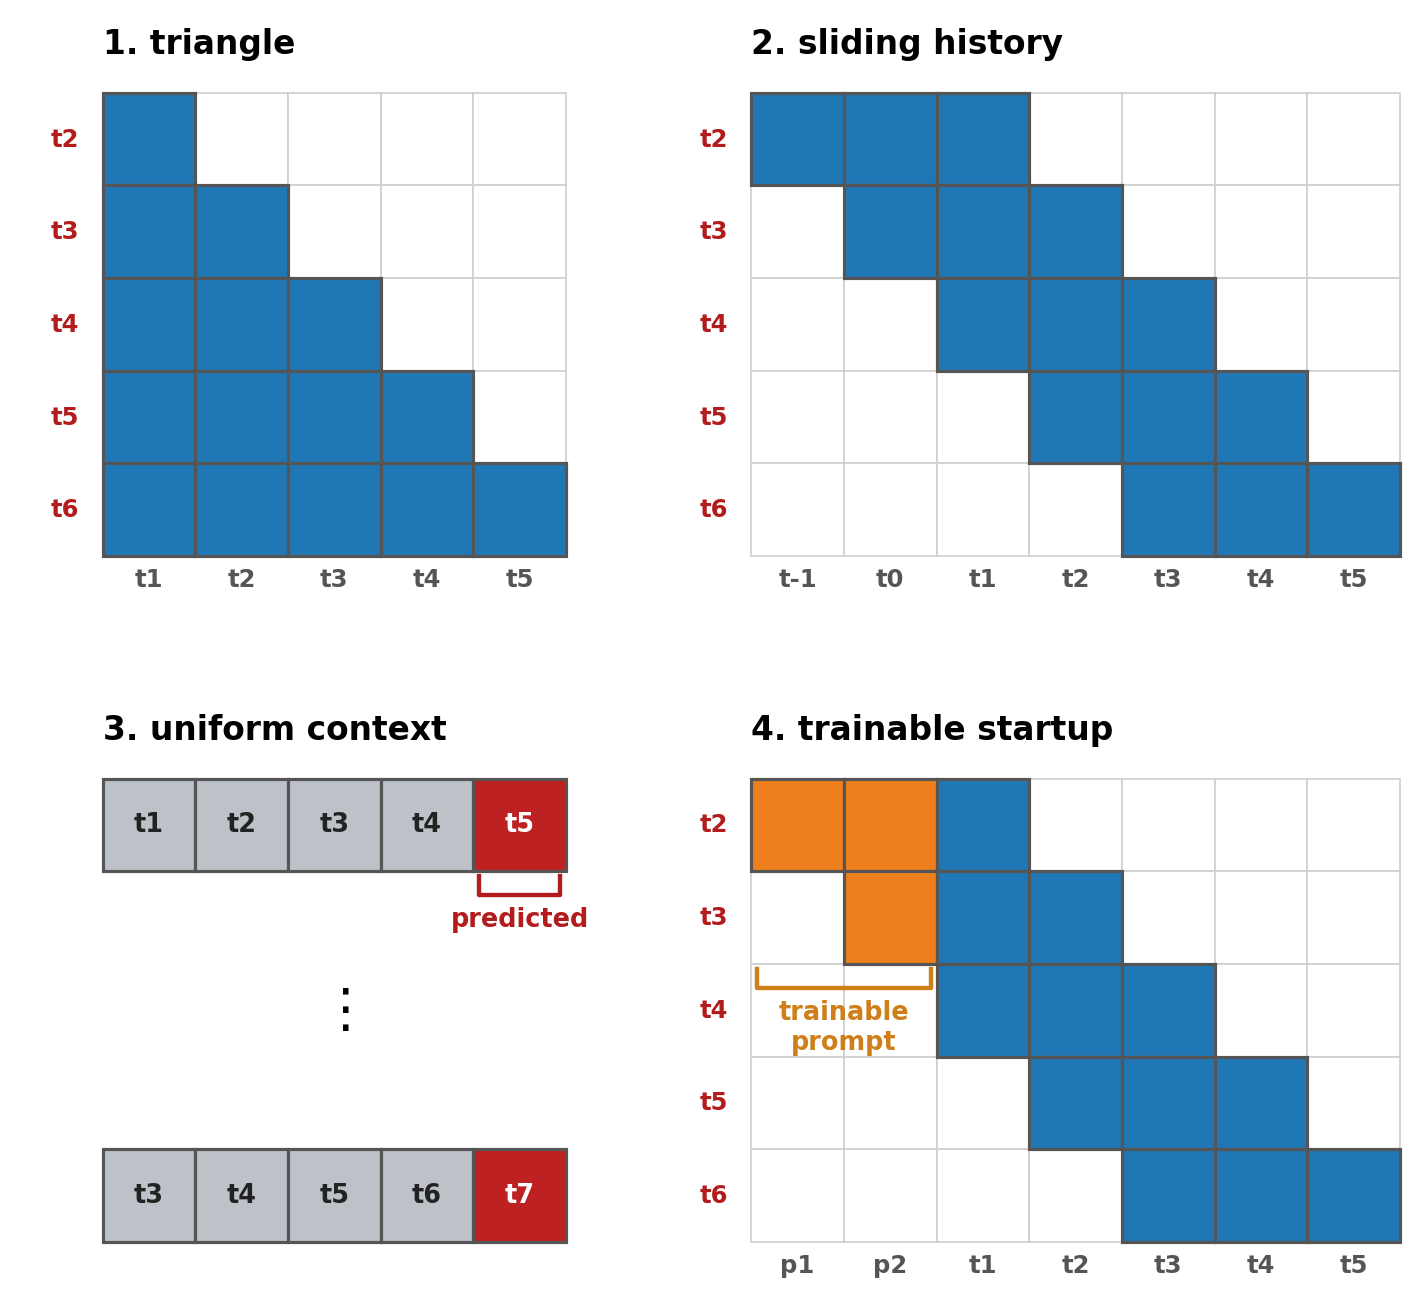
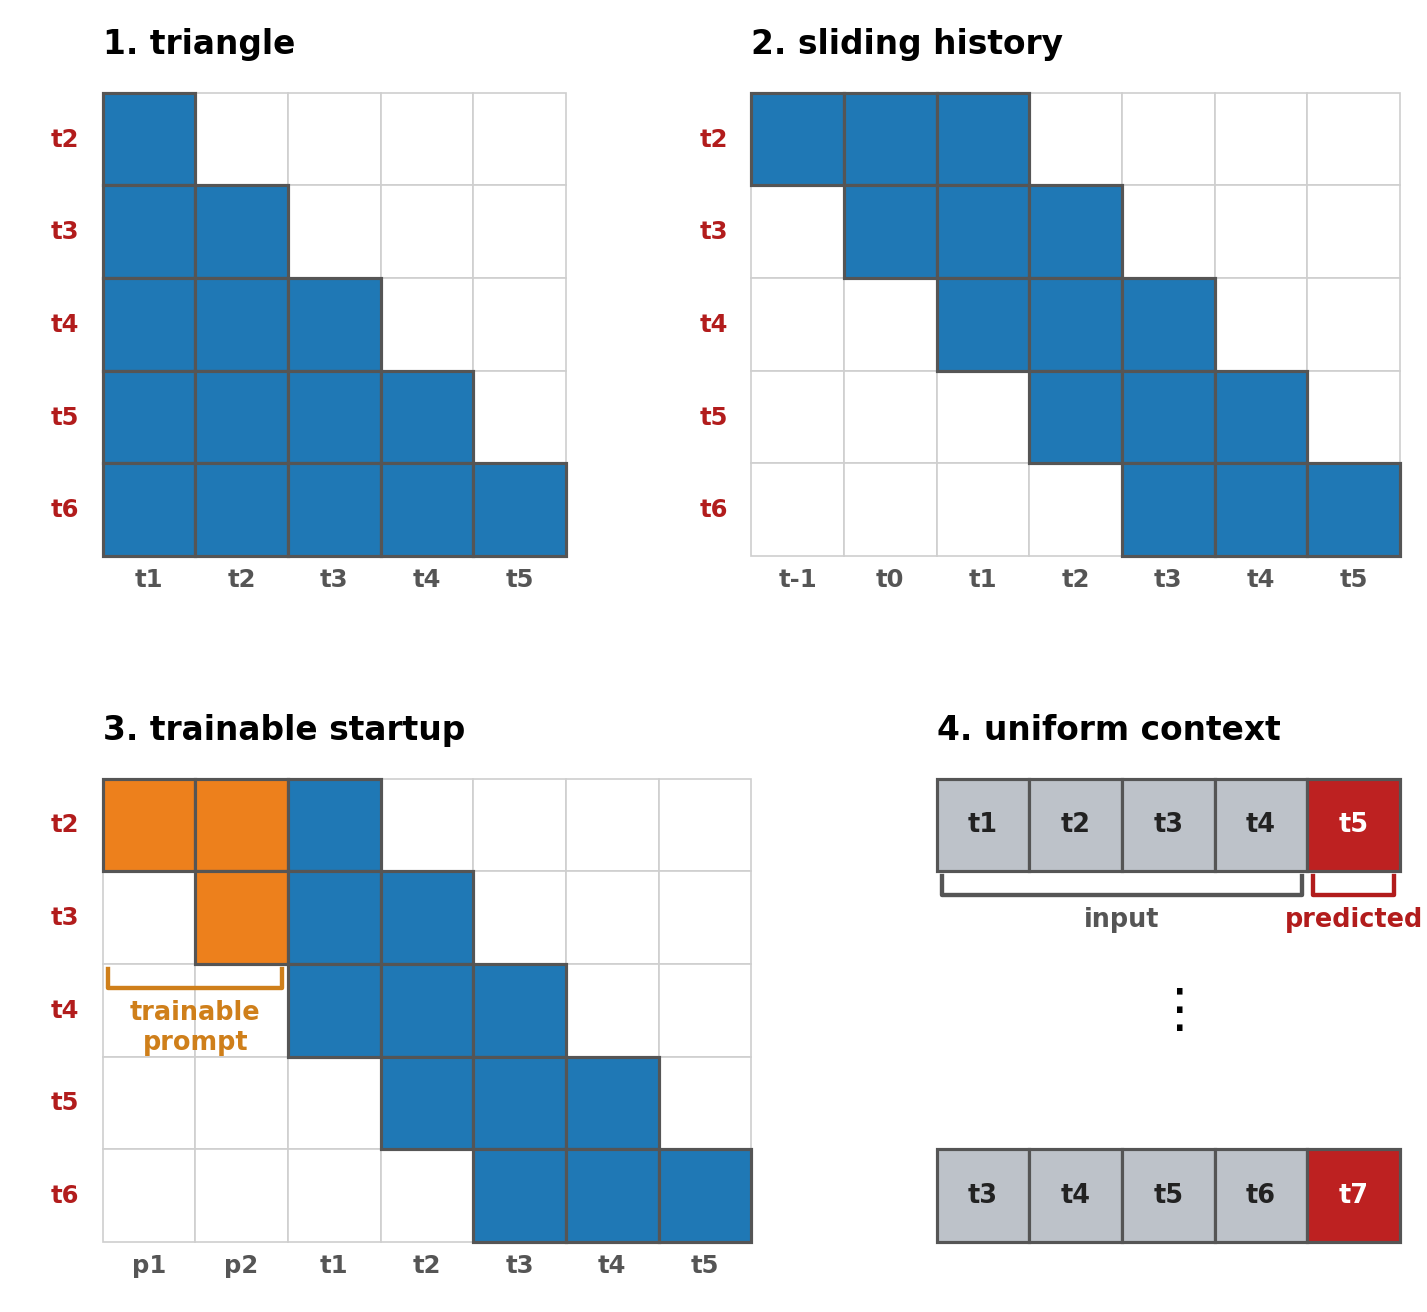
paper fig: swap panels 3/4 (3=trainable startup, 4=uniform context); add 'input' bracket to uniform

diff --git a/experiments/07_autoresearch_sink/scripts/make_windowed_attention_fig.py b/experiments/07_autoresearch_sink/scripts/make_windowed_attention_fig.py
@@ -33,24 +33,25 @@ for r in range(5):
 for c,t in enumerate(["t1","t2","t3","t4","t5"]): XL(ox+c,oy+5+.12,t,CTX)
 # SLIDING+HISTORY  -- right col, top
 attn(7.0,0,"2. sliding history",HISTC,["t-1","t0","t1","t2","t3","t4","t5"])
-# UNIFORM (NOT attention) -- two example sequences shifted along the stream + vertical dots = stacking dataset
-ox,oy=0,7.4; TT(ox,oy-.35,"3. uniform context")
-def useq(sx,ry,toks):           # 5-length predict-last sequence; tokens by ABSOLUTE position; labels INSIDE cells
+# TRAINABLE STARTUP (attention) -- bottom-LEFT (panel 3)
+attn(0,7.4,"3. trainable startup",PROMPT,["p1","p2","t1","t2","t3","t4","t5"])
+# UNIFORM CONTEXT (not attention) -- bottom-RIGHT (panel 4): two stacked example sequences, right-aligned to x=14
+ox,oy=9,7.4; TT(ox,oy-.35,"4. uniform context")
+def useq(sx,ry,toks):           # 5-length predict-last sequence; labels INSIDE cells
     for c in range(4):
         Cl(ox+sx+c,ry,GREY); ax.text(ox+sx+c+.5,ry+.5,toks[c],fontsize=10.5,fontweight="bold",ha="center",va="center",color="#222")
     Cl(ox+sx+4,ry,PREDC); ax.text(ox+sx+4+.5,ry+.5,toks[4],fontsize=10.5,fontweight="bold",ha="center",va="center",color="white")
-useq(0,7.4,["t1","t2","t3","t4","t5"])      # top seq aligns with the right panel's top row (->t2)
+useq(0,7.4,["t1","t2","t3","t4","t5"])
 ax.text(ox+2.5,9.9,r"$\vdots$",fontsize=22,fontweight="bold",ha="center",va="center")
-useq(0,11.4,["t3","t4","t5","t6","t7"])     # bottom seq aligns with bottom row; numbers shifted
-# SLIDING+TRAINABLE -- right col, bottom
-attn(7.0,7.4,"4. trainable startup",PROMPT,["p1","p2","t1","t2","t3","t4","t5"])
-# no legend: label context / predicted / trainable prompt with brackets under the example cells
+useq(0,11.4,["t3","t4","t5","t6","t7"])
+# brackets (no legend)
 def brace(x0,x1,label,ytop,col):
     yb=ytop+0.26
     ax.plot([x0+.06,x0+.06,x1-.06,x1-.06],[ytop+.05,yb,yb,ytop+.05],color=col,lw=1.8,zorder=5)
     ax.text((x0+x1)/2,yb+.12,label,fontsize=10.5,fontweight="bold",ha="center",va="top",color=col)
-brace(4,5,"predicted",8.4,"#b21c1c")             # crimson cell of TOP seq
-brace(7.0,9.0,"trainable\nprompt",9.4,"#cf7f1a")    # under the ->t3 row (p1,p2 prompt columns)
+brace(0,2,"trainable\nprompt",9.4,"#cf7f1a")     # trainable startup (bottom-left), p1,p2 under ->t3
+brace(9,13,"input",8.4,"#555")                   # uniform input tokens t1-t4
+brace(13,14,"predicted",8.4,"#b21c1c")           # uniform predicted t5
 ax.set_xlim(-1.05,14.2); ax.set_ylim(13.1,-0.95)
 fig.subplots_adjust(left=0.004,right=0.996,top=0.996,bottom=0.004)
 out="/Users/zizhaohu/Desktop/projects/context-is-the-new-weight/.claude/worktrees/exp/paper/attention-sink/figures/windowed_attention.png"
